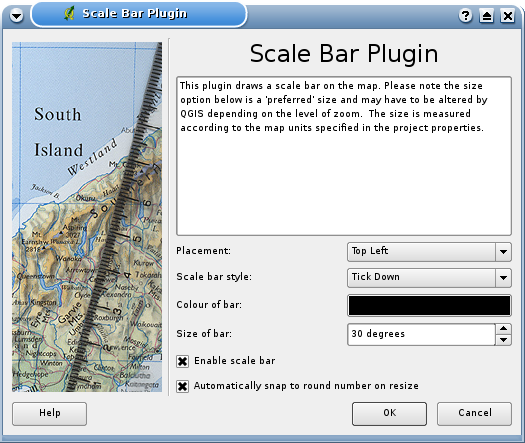
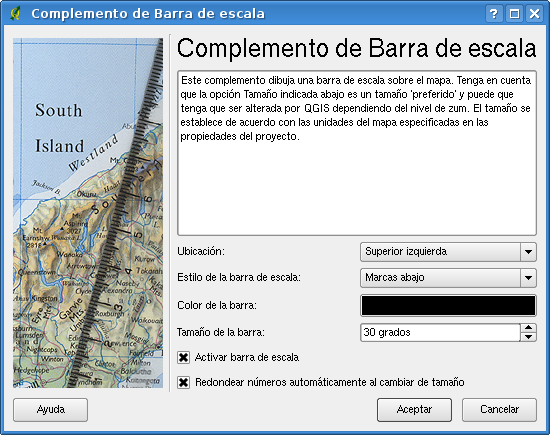
plugins_decorations translation into Spanish with screenshots
git-svn-id: https://svn.osgeo.org/qgis/docs/branches/0.9.1@8159 c8812cc2-4d05-0410-92ff-de0c093fc19c

diff --git a/spanish/user_guide/plugins_decorations.tex b/spanish/user_guide/plugins_decorations.tex
@@ -1,85 +1,71 @@
-\subsection{Using the Decorations Plugins}
+\subsection{Usar los complementos decorativos}
 
-The ``Decoration'' plugins include the following:
+Los complementos ``decorativos'' incluyen lo siguiente:
 
 \begin{itemize}
-\item Copyright Label Plugin
-\item North Arrow Plugin
-\item Scale Bar Plugin
+\item Complemento etiqueta de copyright.
+\item Complemento flecha de Norte.
+\item Complemento barra de escala.
 \end{itemize}
  
-These ``decorate'' the map by adding cartographic elements. 
+``Decoran'' el mapa añadiendo elementos cartográficos.
 
-\subsubsection{Copyright Label Plugin}
+\subsubsection{Complemento etiqueta de copyright}
 
 \begin{figure}[ht]
    \begin{center}
-   \caption{Copyright Plugin}\label{fig:copyright}\smallskip
+   \caption{Complemento de copyright}\label{fig:copyright}\smallskip
    \includegraphics[clip=true, width=8cm]{copyright}
 \end{center}  
 \end{figure}
 
-The title of this plugin is a bit misleading - you can add any random text to the map.
+El título de este complemento puede dar lugar a confusión, ya que puede añadir cualquier texto aleatorio al mapa.
 
 \begin{enumerate}
-\item Make sure the plugin is loaded
-\item Click on the \textsl{Copyright Label} tool on the Plugins toolbar
-\item Enter the text you want to place on the map. You can use HTML as
-  shown in the example
-\item Choose the placement of the label from the drop-down box
-\item Make sure the ``Enable Copyright Label'' checkbox is checked
-\item Click \textsl{OK} 
+\item Asegúrese de que el complemento está cargado.
+\item Pulse en la herramienta \textsl{Etiqueta de Copyright} en la barra de herramientas de complementos.
+\item Introduzca el texto que desee colocar en el mapa. Puede usar HTML como en el ejemplo mostrado.
+\item Seleccione el emplazamiento de la etiqueta en la casilla desplegable.
+\item Asegúrese de que la casilla de verificación ``Activar etiqueta de copyright'' está marcada.
+\item Pulse \textsl{Aceptar}
 \end{enumerate}
 
-In the example above, the first line is in bold, the second (created using
-\textless br\textgreater) contains a copyright symbol, followed by our company name in
-italics.
+En el ejemplo anterior, la primera línea está en negrita, la segunda (creada usando \textless br\textgreater) contiene un símbolo de copyright, seguido por el nombre de nuestra compañía en cursiva.
 
-\subsubsection{North Arrow Plugin}
+\subsubsection{Complemento flecha de Norte}
 
-The North Arrow plugin places a simple north arrow on the map canvas. At
-present there is only one style available. You can adjust the angle of the
-arrow or let QGIS set the direction automatically. If you choose to let
-QGIS determine the direction, it makes its best guess as to how the arrow
-should be oriented.
+El complemento flecha de Norte coloca una sencilla flecha de Norte sobre la vista del mapa. Actualmente sólo hay un estilo disponible. Puede ajustar el ángulo de la flecha o dejar que QGIS establezca la dirección automáticamente. Si elige dejar que QGIS determine la dirección, averiguará lo mejor posible cómo se debe orientar la flecha.
 
-For placement of the arrow you have four options, corresponding to the four 
-corners of the map canvas.
+En cuanto a la ubicación de la flecha, tiene cuatro opciones, correspondientes a las cuatro esquinas de la vista del mapa.
 
 \begin{figure}[ht]
    \begin{center}
-   \caption{North Arrow Plugin}\label{fig:north_arrow}\smallskip
+   \caption{Complemento flecha de Norte}\label{fig:north_arrow}\smallskip
    \includegraphics[clip=true, width=8cm]{north_arrow}
 \end{center}  
 \end{figure}
 
-\subsubsection{Scale Bar Plugin}
-The Scale Bar plugin adds a simple scale bar to the map canvas. You
-control the style and placement, as well as the labeling of the bar. 
+\subsubsection{Complemento barra de escala}
+El complemento barra de escala añade una barra de escala sencilla a la vista del mapa. Puede controlar el estilo y la ubicación, así como el etiquetado de la barra.
 
-QGIS only supports displaying the scale in the same units as your map frame. So
-if the units of your layers are in meters, you can't create a scale bar in
-feet. Likewise if you are using decimal degrees, you can't create a scale
-bar to display distance in meters.
+QGIS sólo puede mostrar la escala en las mismas unidades que tenga el mapa. Por tanto, si sus capas están en metros no puede crear una barra de escala en pies. Del mismo modo, si está usando grados decimales no puede crear una barra de escala para mostrar las distancias en metros.
 
-To add a scale bar:
+Para añadir una barra de escala:
 
 \begin{enumerate}
-\item Open the plugin dialog by clicking on the \textsl{Scale Bar} tool
-  on the Plugins toolbar
-\item Choose the placement from the drop-down list
-\item Choose the style
-\item Select the color for the bar, or use the default black color
-\item Set the size of the bar and its label
-\item Make sure the ``Enable scale bar'' checkbox is checked
-\item Optionally choose to automatically snap to a round number when the
-  canvas is resized
-\item Click \textsl{OK} 
+\item Abra el diálogo del complemento pulsando en la herramienta \textsl{Barra de escala} en la barra de herramientas de complementos.
+\item Seleccione la ubicación en la lista desplegable.
+\item Seleccione el estilo.
+\item Seleccione el color de la barra o use el negro predeterminado.
+\item Establezca el tamaño de la barra y su etiqueta.
+\item Asegúrese de que la casilla de verificación ``Activar barra de escala'' está marcada.
+\item Opcionalmente puede elegir redondear a un número exacto cuando se redimensiona la vista del mapa.
+\item Pulse \textsl{Aceptar} 
 \end{enumerate} 
 
 \begin{figure}[ht]
    \begin{center}
-   \caption{Scale Bar Plugin}\label{fig:scale_bar}\smallskip
+   \caption{Complemento barra de escala}\label{fig:scale_bar}\smallskip
    \includegraphics[clip=true, width=8cm]{scale_bar}
 \end{center}  
 \end{figure}
